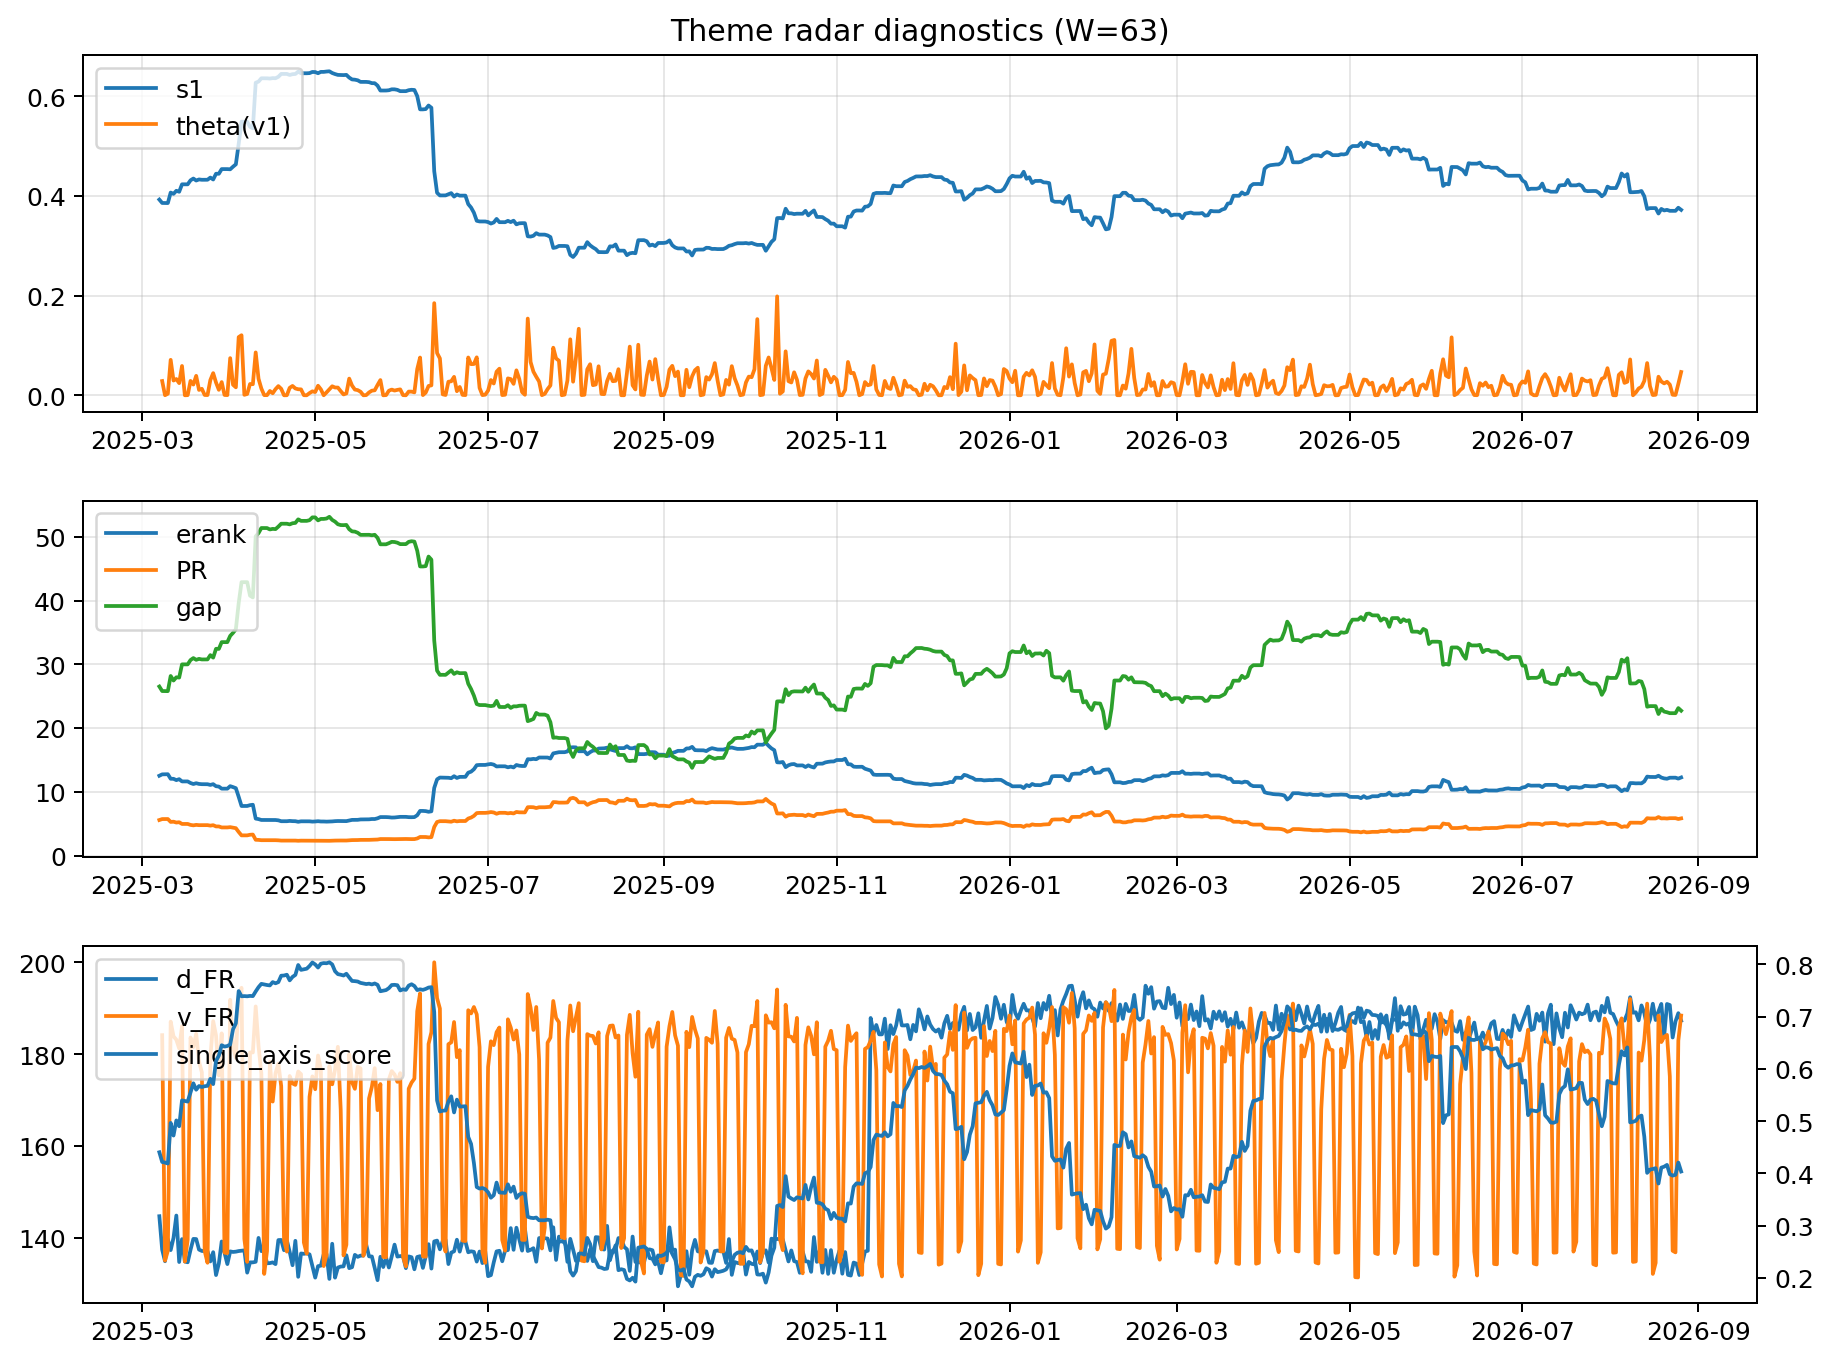
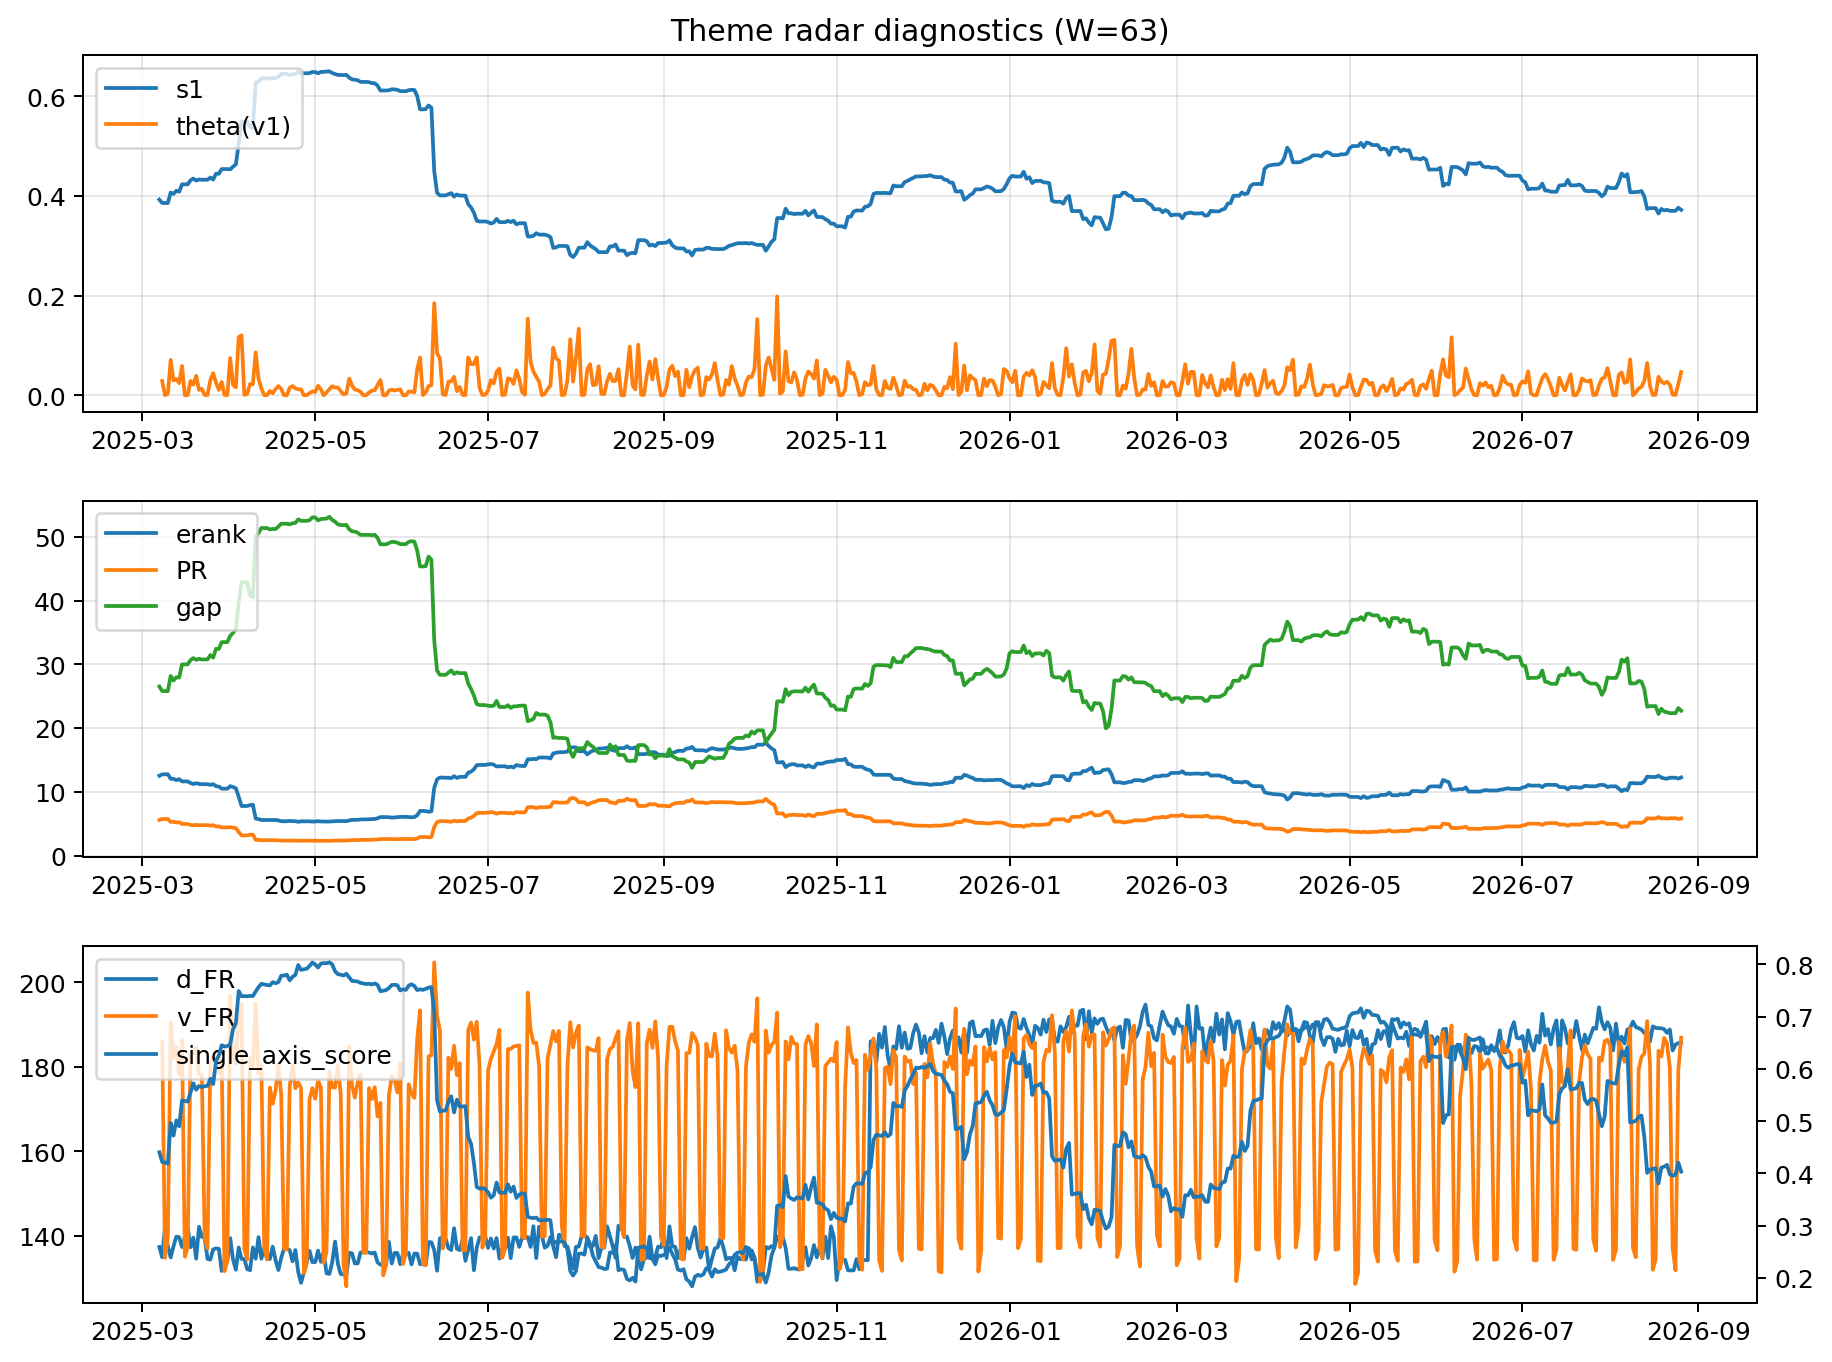
log: 2026-08-26 | sha256:9df0bc6d742347597d361afc2b6eb9f7aa22a8f765ee47e271613803a5dac87d

diff --git a/logs/2026-08-26.md b/logs/2026-08-26.md
@@ -3,52 +3,52 @@
 ![diagnostic W63](../assets/diagnostic/2026-08-26_W63.png)
 
 ## Leaders (v1) — W=63
-- **Nuclear_Uranium** (0.0943504583605368)
-- Semis (0.073992336991763)
-- Quantum (0.0668717500787465)
+- **Nuclear_Uranium** (0.0943504426527727)
+- Semis (0.0739923453893623)
+- Quantum (0.0668717406742736)
 
 ## Challengers — W=63
-**v2:** Rates (0.0872376048814529), Genomics_Bio (0.0808895718083599), Semis (0.0760308738939272)
-**v3:** Metals (0.1006906654316333), Crypto (0.0858557618803365), Software_Cloud (0.0717203193480026)
+**v2:** Rates (0.0872372530894241), Genomics_Bio (0.0808897129017583), Semis (0.0760309093758387)
+**v3:** Metals (0.1006906297357278), Crypto (0.0858557175887733), Software_Cloud (0.0717203606037226)
 
 ## Migration (20D slope) — W=63
 **Top risers:**
-- axis_Quantum: 0.0004857400604895
-- axis_Space: 0.0004446421707482
-- axis_Nuclear_Uranium: 0.0003157466899169
-- axis_Semis: 0.0002515294228638
-- axis_Clean_Broad: 0.0001892581303408
-- axis_Grid_Power: 0.0001772657993205
-- axis_Robotics: 0.000148318844197
-- axis_Equity_US: 0.0001309136986119
-- axis_Equity_ExUS: 0.0001195011482527
-- axis_Drones_Autonomy: 9.899653298548706e-05
+- axis_Quantum: 0.0004857400037893
+- axis_Space: 0.0004446419570641
+- axis_Nuclear_Uranium: 0.0003157463816586
+- axis_Semis: 0.0002515296324655
+- axis_Clean_Broad: 0.000189258213747
+- axis_Grid_Power: 0.0001772658786307
+- axis_Robotics: 0.0001483188718111
+- axis_Equity_US: 0.0001309138011993
+- axis_Equity_ExUS: 0.0001195011845926
+- axis_Drones_Autonomy: 9.899641582091629e-05
 
 **Top fallers:**
-- axis_Sector_Materials: -0.0001424815831442
-- axis_Sector_ConsDisc: -0.000146604386303
-- axis_Genomics_Bio: -0.0001476035836323
-- axis_Credit: -0.0001697788077527
-- axis_MegaCap_AI: -0.0001754761120057
-- axis_Software_Cloud: -0.0002199836789528
-- axis_Cyber: -0.0002292196267419
-- axis_Metals: -0.0002548834463322
-- axis_Crypto: -0.0004447609589972
-- axis_Rates: -0.0006585893670358
+- axis_Sector_Materials: -0.0001424815122341
+- axis_Sector_ConsDisc: -0.0001466043952059
+- axis_Genomics_Bio: -0.0001476031595152
+- axis_Credit: -0.0001697789703315
+- axis_MegaCap_AI: -0.0001754758661315
+- axis_Software_Cloud: -0.0002199834751656
+- axis_Cyber: -0.0002292194757456
+- axis_Metals: -0.0002548836946312
+- axis_Crypto: -0.0004447609994044
+- axis_Rates: -0.0006585905056582
 
 ## Risk line (W=63)
-- s1: 0.3719439968720137
-- theta_v1: 0.0467518872064406
-- v_FR: 188.40346092367164
+- s1: 0.3719440519160848
+- theta_v1: 0.0467519079031586
+- v_FR: 186.8483487420673
 - single_axis_score: 0.4037174721189591
 
 ## Interpretation
-**Regime:** `structure_rewrite`
+**Regime:** `theme_migration`
 
 - Action: Tomorrow watchlist: Quantum, Space, Nuclear_Uranium, Semis, Clean_Broad + v2_top1=Rates
-- Action: Hedge note: v_FR high + theta high → correlation structure unstable; diversify hedges / reduce reliance on static correlations.
+- Action: Hedge note: normal correlation stability.
 
-- Percentiles (W=63 history): vfr_pct=0.91, theta_pct=0.84, s1_pct=0.33, score_pct=0.35.
+- Percentiles (W=63 history): vfr_pct=0.86, theta_pct=0.84, s1_pct=0.33, score_pct=0.35.
 
 ---
[2 lines of base64/hex data omitted]
